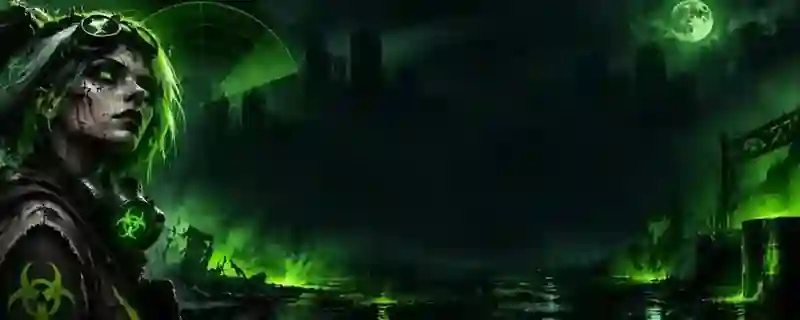
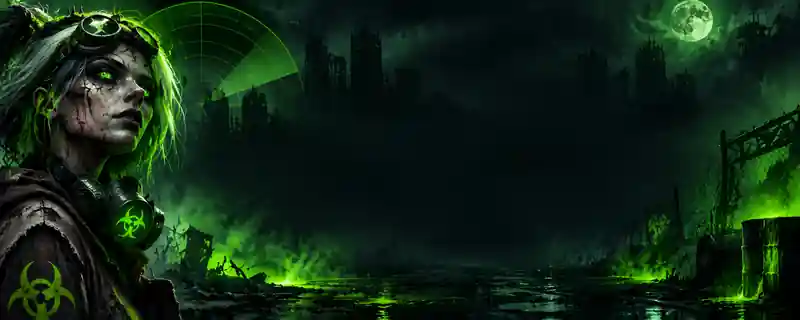
Improve supplied cinematic tool backgrounds and refresh all locales

diff --git a/homepage-visual.css b/homepage-visual.css
@@ -506,7 +506,7 @@ html body section.section.tools#radar > .tool-grid > article.tool-card:before{
   opacity:.30!important;
   background-image:
     linear-gradient(90deg,#080d0c 0%,#080d0c88 23%,#080d0c24 62%,#080d0c10 100%),
-    url("/assets/images/tool-radar-outbreak.webp?v=20261109-real-art1")!important;
+    url("/assets/images/tool-radar-outbreak.webp?v=20261109-real-art2")!important;
   background-repeat:no-repeat!important;
   background-size:cover!important;
   background-position:center right!important;
@@ -516,7 +516,7 @@ html body section.section.tools#radar > .tool-grid > article.tool-card:before{
 html body section.section.tools#radar > .tool-grid > article.lab-card:before{
   background-image:
     linear-gradient(90deg,#080d0c 0%,#080d0c88 23%,#080d0c20 62%,#080d0c08 100%),
-    url("/assets/images/tool-zombie-lab.webp?v=20261109-real-art1")!important;
+    url("/assets/images/tool-zombie-lab.webp?v=20261109-real-art2")!important;
   background-position:center right!important;
   filter:saturate(1.18) contrast(1.08)!important;
   opacity:.82!important;
@@ -524,7 +524,7 @@ html body section.section.tools#radar > .tool-grid > article.lab-card:before{
 html body section.section.tools#radar > .tool-grid > article.network-card:before{
   background-image:
     linear-gradient(90deg,#080d0c 0%,#080d0c82 22%,#080d0c18 62%,#080d0c08 100%),
-    url("/assets/images/tool-survivor-network.webp?v=20261109-real-art1")!important;
+    url("/assets/images/tool-survivor-network.webp?v=20261109-real-art2")!important;
   background-position:left center!important;
   filter:saturate(1.16) contrast(1.08)!important;
   opacity:.82!important;
@@ -691,17 +691,17 @@ html body section.section.tools#radar > .tool-grid > article.tool-card:before{
 html body section.section.tools#radar > .tool-grid > article.radar-card:before{
   background-image:
    linear-gradient(90deg,rgba(4,9,7,.98) 0%,rgba(4,9,7,.90) 20%,rgba(4,9,7,.62) 56%,rgba(4,9,7,.40) 100%),
-   url("/assets/images/tool-radar-outbreak.svg?v=20261109-real-art1")!important;
+   url("/assets/images/tool-radar-outbreak.svg?v=20261109-real-art2")!important;
 }
 html body section.section.tools#radar > .tool-grid > article.lab-card:before{
   background-image:
    linear-gradient(90deg,rgba(7,5,11,.98) 0%,rgba(7,5,11,.90) 20%,rgba(7,5,11,.60) 56%,rgba(7,5,11,.38) 100%),
-   url("/assets/images/tool-zombie-lab.svg?v=20261109-real-art1")!important;
+   url("/assets/images/tool-zombie-lab.svg?v=20261109-real-art2")!important;
 }
 html body section.section.tools#radar > .tool-grid > article.network-card:before{
   background-image:
    linear-gradient(90deg,rgba(9,5,7,.98) 0%,rgba(9,5,7,.90) 20%,rgba(9,5,7,.60) 56%,rgba(9,5,7,.38) 100%),
-   url("/assets/images/tool-survivor-network.svg?v=20261109-real-art1")!important;
+   url("/assets/images/tool-survivor-network.svg?v=20261109-real-art2")!important;
 }
 html body section.section.tools#radar > .tool-grid > article.tool-card > *{
   position:relative!important;
@@ -806,13 +806,13 @@ html body section.section.tools#radar > .tool-grid > article.tool-card:before{
   filter:saturate(.9) contrast(.95)!important;
 }
 html body section.section.tools#radar > .tool-grid > article.radar-card:before{
-  background-image:linear-gradient(90deg,#070b0a 0%,#070b0ac9 22%,#070b0a55 66%,#070b0a22 100%),url("/assets/images/tool-radar-outbreak.svg?v=20261109-real-art1")!important;
+  background-image:linear-gradient(90deg,#070b0a 0%,#070b0ac9 22%,#070b0a55 66%,#070b0a22 100%),url("/assets/images/tool-radar-outbreak.svg?v=20261109-real-art2")!important;
 }
 html body section.section.tools#radar > .tool-grid > article.lab-card:before{
-  background-image:linear-gradient(90deg,#09070d 0%,#09070dc9 22%,#09070d55 66%,#09070d22 100%),url("/assets/images/tool-zombie-lab.svg?v=20261109-real-art1")!important;
+  background-image:linear-gradient(90deg,#09070d 0%,#09070dc9 22%,#09070d55 66%,#09070d22 100%),url("/assets/images/tool-zombie-lab.svg?v=20261109-real-art2")!important;
 }
 html body section.section.tools#radar > .tool-grid > article.network-card:before{
-  background-image:linear-gradient(90deg,#0c0709 0%,#0c0709c9 22%,#0c070955 66%,#0c070922 100%),url("/assets/images/tool-survivor-network.svg?v=20261109-real-art1")!important;
+  background-image:linear-gradient(90deg,#0c0709 0%,#0c0709c9 22%,#0c070955 66%,#0c070922 100%),url("/assets/images/tool-survivor-network.svg?v=20261109-real-art2")!important;
 }
 html body section.section.tools#radar > .tool-grid > article.tool-card:after{
   content:none!important;

diff --git a/index.html b/index.html
@@ -860,7 +860,7 @@ html.arcade-snake-embed.arcade-snake-fullscreen #zombie-canvas{position:absolute
 }
 </style>
 
-<link rel="stylesheet" href="/homepage-visual.css?v=20261109-real-art1">
+<link rel="stylesheet" href="/homepage-visual.css?v=20261109-real-art2">
 <style id="zc-adsterra-native-layout-20261105">
 /* Use the native placement on desktop/tablet landscape widths; retain 320x50 only on phone-sized viewports. */
 @media (min-width: 768px) {

diff --git a/de/index.html b/de/index.html
@@ -810,7 +810,7 @@ html.arcade-snake-embed.arcade-snake-fullscreen #zombie-canvas{position:absolute
 }
 </style>
 
-<link rel="stylesheet" href="/homepage-visual.css?v=20261109-real-art1">
+<link rel="stylesheet" href="/homepage-visual.css?v=20261109-real-art2">
 <style id="zc-adsterra-native-layout-20261105">
 @media (min-width: 768px) {
   body:has(#home) #home > section.hero .zc-hero-ad-stage {

diff --git a/fr/index.html b/fr/index.html
@@ -783,7 +783,7 @@ html.arcade-snake-embed.arcade-snake-fullscreen #zombie-canvas{position:absolute
 }
 </style>
 
-<link rel="stylesheet" href="/homepage-visual.css?v=20261109-real-art1">
+<link rel="stylesheet" href="/homepage-visual.css?v=20261109-real-art2">
 <style id="zc-adsterra-native-layout-20261105">
 @media (min-width: 768px) {
   body:has(#home) #home > section.hero .zc-hero-ad-stage {

diff --git a/hi/index.html b/hi/index.html
@@ -783,7 +783,7 @@ html.arcade-snake-embed.arcade-snake-fullscreen #zombie-canvas{position:absolute
 }
 </style>
 
-<link rel="stylesheet" href="/homepage-visual.css?v=20261109-real-art1">
+<link rel="stylesheet" href="/homepage-visual.css?v=20261109-real-art2">
 <style id="zc-adsterra-native-layout-20261105">
 @media (min-width: 768px) {
   body:has(#home) #home > section.hero .zc-hero-ad-stage {

diff --git a/it/index.html b/it/index.html
@@ -783,7 +783,7 @@ html.arcade-snake-embed.arcade-snake-fullscreen #zombie-canvas{position:absolute
 }
 </style>
 
-<link rel="stylesheet" href="/homepage-visual.css?v=20261109-real-art1">
+<link rel="stylesheet" href="/homepage-visual.css?v=20261109-real-art2">
 <style id="zc-adsterra-native-layout-20261105">
 @media (min-width: 768px) {
   body:has(#home) #home > section.hero .zc-hero-ad-stage {

diff --git a/ja/index.html b/ja/index.html
@@ -783,7 +783,7 @@ html.arcade-snake-embed.arcade-snake-fullscreen #zombie-canvas{position:absolute
 }
 </style>
 
-<link rel="stylesheet" href="/homepage-visual.css?v=20261109-real-art1">
+<link rel="stylesheet" href="/homepage-visual.css?v=20261109-real-art2">
 <style id="zc-adsterra-native-layout-20261105">
 @media (min-width: 768px) {
   body:has(#home) #home > section.hero .zc-hero-ad-stage {

diff --git a/ru/index.html b/ru/index.html
@@ -783,7 +783,7 @@ html.arcade-snake-embed.arcade-snake-fullscreen #zombie-canvas{position:absolute
 }
 </style>
 
-<link rel="stylesheet" href="/homepage-visual.css?v=20261109-real-art1">
+<link rel="stylesheet" href="/homepage-visual.css?v=20261109-real-art2">
 <style id="zc-adsterra-native-layout-20261105">
 @media (min-width: 768px) {
   body:has(#home) #home > section.hero .zc-hero-ad-stage {

diff --git a/tr/index.html b/tr/index.html
@@ -783,7 +783,7 @@ html.arcade-snake-embed.arcade-snake-fullscreen #zombie-canvas{position:absolute
 }
 </style>
 
-<link rel="stylesheet" href="/homepage-visual.css?v=20261109-real-art1">
+<link rel="stylesheet" href="/homepage-visual.css?v=20261109-real-art2">
 <style id="zc-adsterra-native-layout-20261105">
 @media (min-width: 768px) {
   body:has(#home) #home > section.hero .zc-hero-ad-stage {

diff --git a/zh-CN/index.html b/zh-CN/index.html
@@ -783,7 +783,7 @@ html.arcade-snake-embed.arcade-snake-fullscreen #zombie-canvas{position:absolute
 }
 </style>
 
-<link rel="stylesheet" href="/homepage-visual.css?v=20261109-real-art1">
+<link rel="stylesheet" href="/homepage-visual.css?v=20261109-real-art2">
 <style id="zc-adsterra-native-layout-20261105">
 @media (min-width: 768px) {
   body:has(#home) #home > section.hero .zc-hero-ad-stage {
